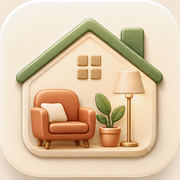
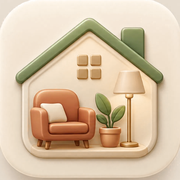
V24

diff --git a/index.html b/index.html
@@ -9,7 +9,7 @@
 <meta name="theme-color" content="#fbf7f3">
 <title>Hogar</title>
 <link rel="icon" href="logo.png" type="image/png">
-<link rel="apple-touch-icon" href="apple-touch-icon.png">
+<link rel="apple-touch-icon" href="apple-touch-icon.png?v=24">
 <link rel="manifest" href="manifest.json">
 <style>
 *{box-sizing:border-box;margin:0;padding:0;-webkit-tap-highlight-color:transparent}
@@ -1432,7 +1432,7 @@ html,body,button,a,label,.cal-day,.cal-card,.dv-wd,.cal-mode,.cal-btn{touch-acti
             onblur="saveAppTitle(this.textContent.trim())"
             onkeydown="if(event.key==='Enter'){event.preventDefault();this.blur()}"
             title="Toca para editar el título">Home</div>
-          <span class="ver-badge">V23</span>
+          <span class="ver-badge">V24</span>
         </div>
         <button class="brand-flip" style="perspective:none; grid-column: 3; align-self: center;" type="button" onclick="openCalc()" title="Calculadora">
           <span class="brand-flip-inner" style="transition: transform 0.1s;">
@@ -7406,7 +7406,7 @@ if ('serviceWorker' in navigator) {
 </div>
 
 <div class="app-footer" onclick="openCopyright(event)">
-  <span class="ft-copy">© 2025–Present Elisabeth Altarriba</span><span class="ft-ver">V23</span>
+  <span class="ft-copy">© 2025–Present Elisabeth Altarriba</span><span class="ft-ver">V24</span>
 </div>
 
 <script>

diff --git a/sw.js b/sw.js
@@ -1,5 +1,5 @@
 // HOME · service worker V10: funciona sin conexión
-const CACHE_NAME = 'home-cache-v23-2026-10-27';
+const CACHE_NAME = 'home-cache-v24-2026-10-27';
 const CORE = [
   './',
   './index.html',

diff --git a/CHANGELOG.md b/CHANGELOG.md
@@ -8,6 +8,11 @@ Este archivo mantiene un registro de todas las modificaciones y tareas pendiente
 
 ## Cambios Realizados
 
+- **(2026-10-27) [V24] Icono nuevo del móvil:**
+  - El icono de la app en la pantalla de inicio del móvil es ahora la imagen de la casita que mandó Elisabeth. Está recortado al recuadro, con el amarillo pasado a **marrón clarito** y un poco más de luz (`apple-touch-icon.png` de 180 px e `icon-512.png`).
+  - El enlace al icono lleva `?v=24` para que el iPhone no use el antiguo guardado.
+  - Versión **V24**. `sw.js`: caché `home-cache-v24-2026-10-27`.
+
 - **(2026-10-27) [V23] Buscar tickets por fecha y nombre a la vez, copia completa y nuevo copyright:**
   - **Tickets · Buscar · PDF:** nueva pestaña **«📅+🔤 Las dos»**, para buscar entre dos fechas *y* por nombre a la vez (por ejemplo, «Mercadona» de este mes). Las búsquedas por separado («Fechas» y «Nombre») siguen igual. El PDF indica las dos cosas en la cabecera.
   - **Copia de seguridad revisada a fondo**, llenando la app con un poco de todo, exportando, borrando y volviendo a importar. Vuelve todo:

diff --git a/NOTAS.md b/NOTAS.md
@@ -146,3 +146,7 @@ Aquí se apunta todo lo que Elisabeth pide o comenta sobre la app, para no perde
 1. En tickets, poder buscar **por fecha y por nombre a la vez**, además de por separado. → Hecho.
 2. Comprobar que **exportar e importar** guarda los tickets, sus fotos y todas las opciones. → Revisado y completado (faltaban el tema de tickets y el idioma del dictado).
 3. **Copyright:** borrar lo que había y poner la imagen que adjuntó. → Hecho.
+
+### Peticiones para la V24
+- Poner como **icono del móvil** la imagen de la casita que adjuntó, pero con **menos amarillo y más marrón clarito**. → Hecho.
+- Aviso importante que se le ha dado: en el iPhone, al borrar el icono de la pantalla de inicio se pueden borrar los datos de la app. Antes hay que hacer **Exportar** y, después de volver a añadirla, **Importar**.
